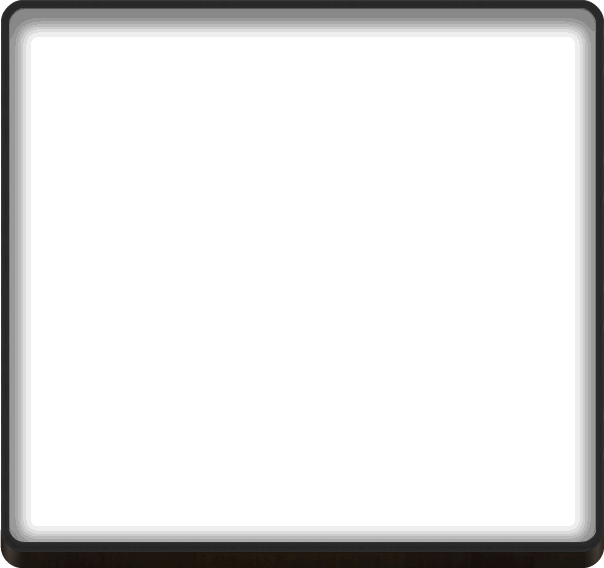
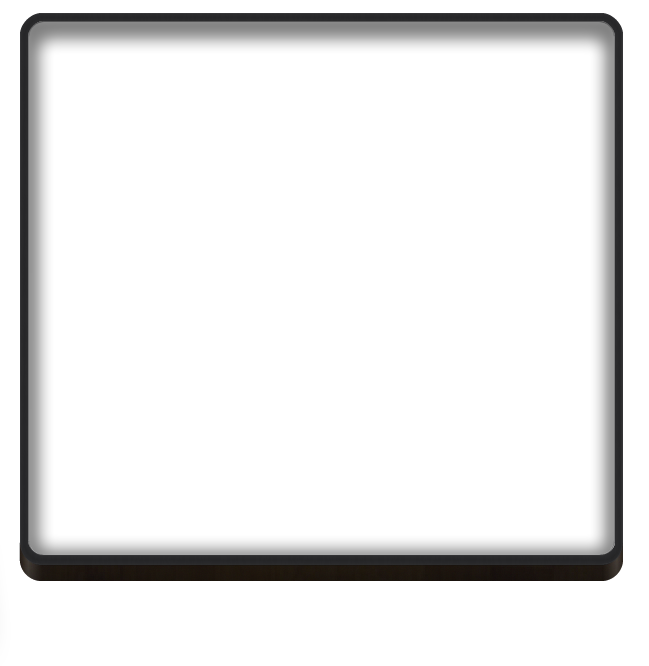
Better support of Retina displays

Changed region(s): [[0.0, 0.0, 1.0, 1.0]]

diff --git a/app/stylesheets/_board.scss b/app/stylesheets/_board.scss
@@ -1,4 +1,6 @@
 $board--img: "board.png";
+$board--width: image-width($board--img);
+$board--height: image-height($board--img);
 $board__fg--img: "board__fg.png";
 
 .board {
@@ -6,9 +8,10 @@ $board__fg--img: "board__fg.png";
   top: 50%;
   left: 35%;
   background: image-url($board--img) no-repeat;
-  width: image-width($board--img);
-  height: image-height($board--img);
+  width: $board--width;
+  height: $board--height;
   @include transform(translate(0, -50%));
+  @include background-size($board--width, $board--height);
 }
   .board__tiles {
     position: absolute;
@@ -17,16 +20,20 @@ $board__fg--img: "board__fg.png";
   }
   .board__fg {
     position: absolute;
-    top: 7px;
-    left: (image-width($board--img) - image-width($board__fg--img)) / 2;
+    top: 0;
+    left: 0;
     background: image-url($board__fg--img) no-repeat;
-    width: image-width($board__fg--img);
-    height: image-height($board__fg--img);
+    width: $board--width;
+    height: $board--height;
+    @include background-size($board--width, $board--height);
     z-index: 99;
     pointer-events: none;
   }
 
-@media only screen and (device-pixel-ratio: 2) {
+@media only screen and (-webkit-min-device-pixel-ratio: 1.5),
+only screen and (min--moz-device-pixel-ratio: 1.5),
+only screen and (-o-device-pixel-ratio: 3/2),
+only screen and (min-device-pixel-ratio: 1.5) {
   $board--img: "board@2x.png";
   $board__fg--img: "board__fg@2x.png";
   .board {

diff --git a/app/stylesheets/_tile.scss b/app/stylesheets/_tile.scss
@@ -5,19 +5,24 @@
   margin: 1px;
   font: 2em/2.5 SpecialElite;
   text-align: center;
-  text-shadow: 0 2px 0 #000;
+  text-shadow: 0 1px 0 #000;
   color: rgba(255,255,255,.4);
   background: image-url($image) 0 0 no-repeat;
   width: image-width($image);
   height: image-height($image);
+  @include background-size(image-width($image), image-height($image));
+  border: 1px solid #f00;
 }
 .tile_empty {
   visibility: hidden;
 }
 
-@media only screen and (device-pixel-ratio: 2) {
-  $image: "tile@2x.png";
+@media only screen and (-webkit-min-device-pixel-ratio: 1.5),
+only screen and (min--moz-device-pixel-ratio: 1.5),
+only screen and (-o-device-pixel-ratio: 3/2),
+only screen and (min-device-pixel-ratio: 1.5) {
   .tile {
-    background: image-url($image) 0 0 no-repeat;
+    margin: 2px;
+    background: image-url("tile@2x.png") 0 0 no-repeat;
   }
 }
